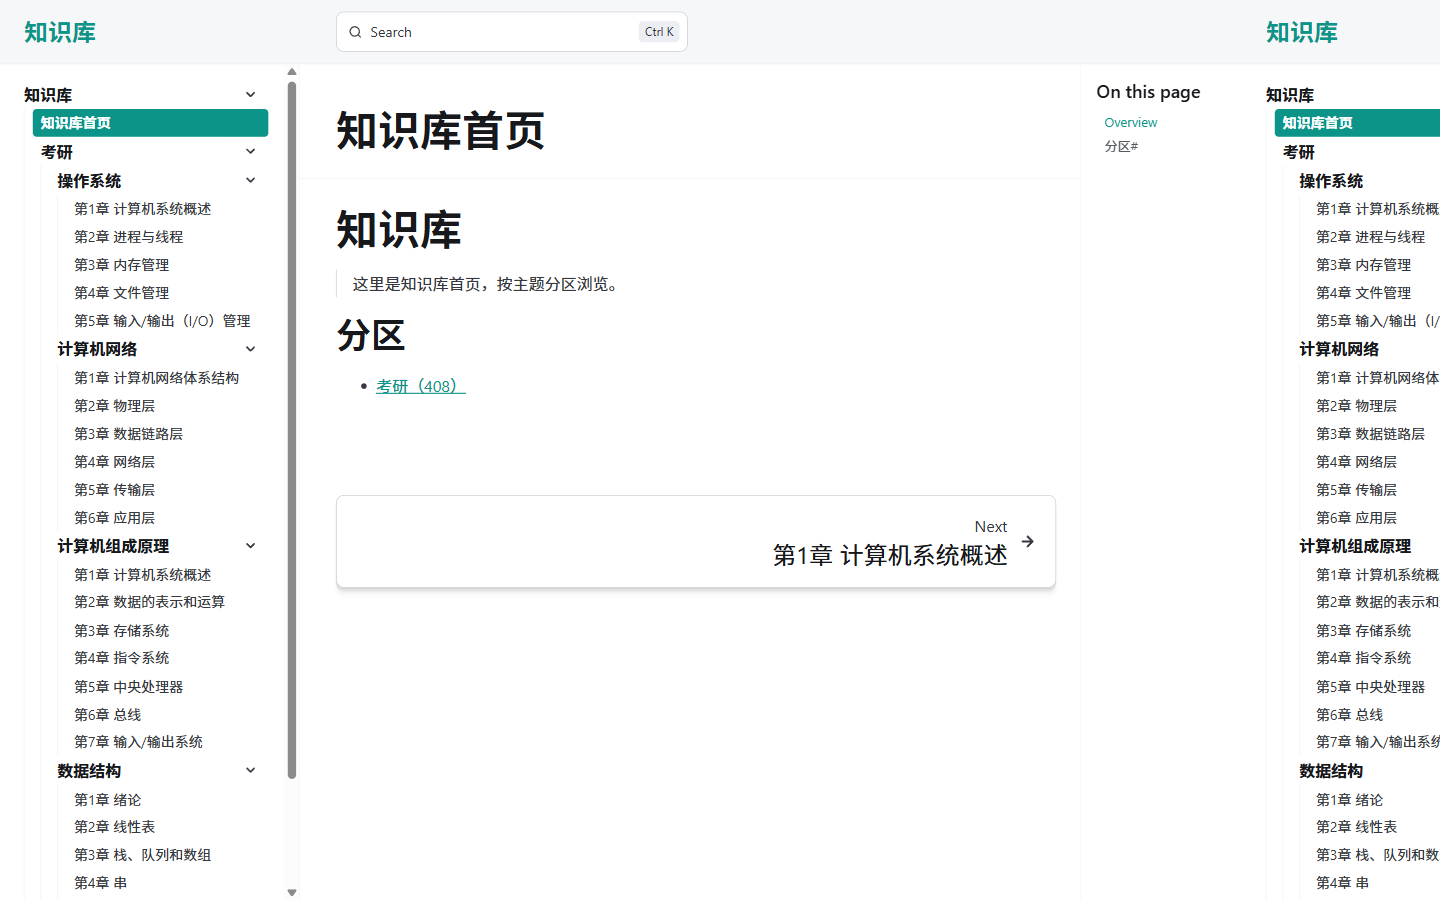
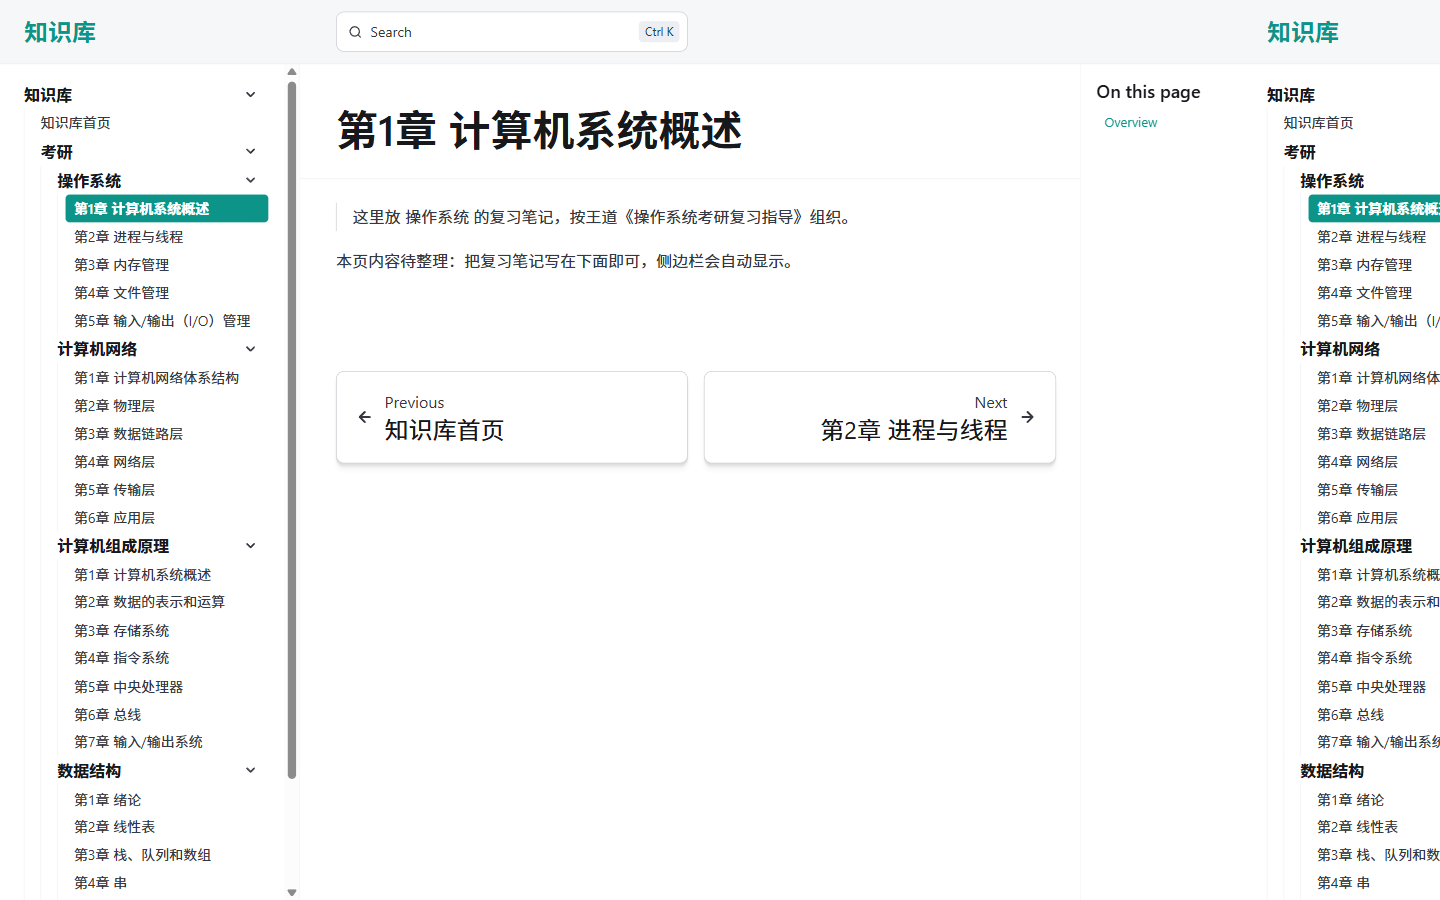
fix: 看板娘只留2模型缩小舞台去掉关于按钮；AI问答system改知识库+博客；更新知识库验证图

diff --git a/functions/api/chat.ts b/functions/api/chat.ts
@@ -10,7 +10,7 @@ export async function onRequestPost(context) {
   }
   const MODEL = context.env.ARK_MODEL || "doubao-seed-2-0-code-preview-260215";
   const system =
-    "你是本站的 AI 问答助手，根据提供的知识库内容回答用户问题。" +
+    "你是本站的 AI 问答助手，根据提供的知识库和博客内容回答用户问题。" +
     "如果知识库内容不足以回答，可以结合你的知识补充，并说明哪些来自知识库。回答简洁、条理清晰，使用中文。";
   const user =
     (ctx && typeof ctx === "string" && ctx.trim()

diff --git a/src/content/posts/从Hexo迁移到Astro部署记录.md b/src/content/posts/从Hexo迁移到Astro部署记录.md
@@ -690,7 +690,7 @@ pnpm dev
 
 浏览器打开 `https://my-firefly-blog.pages.dev/kb/`：左侧目录树（知识库 → 考研 → 四科 → 26 章）、每页 TOC、暗色模式都正常。
 
-![知识库左侧目录树：知识库 → 考研 → 四科 26 章](/assets/blog-migrate/kb-sidebar.png)以后写笔记：`src/content/docs/kb/考研/操作系统/` 里新建 `第6章-xxx.md` → `git push` → 侧边栏自动多出一节，不用改任何配置。
+![知识库章页面：左侧目录树自动生成（知识库 → 考研 → 四科），右侧 On this page 目录、底部上一页/下一页导航](/assets/blog-migrate/kb-sidebar.png)以后写笔记：`src/content/docs/kb/考研/操作系统/` 里新建 `第6章-xxx.md` → `git push` → 侧边栏自动多出一节，不用改任何配置。
 
 #### 十一、AI 问答接入（可选扩展）
 
